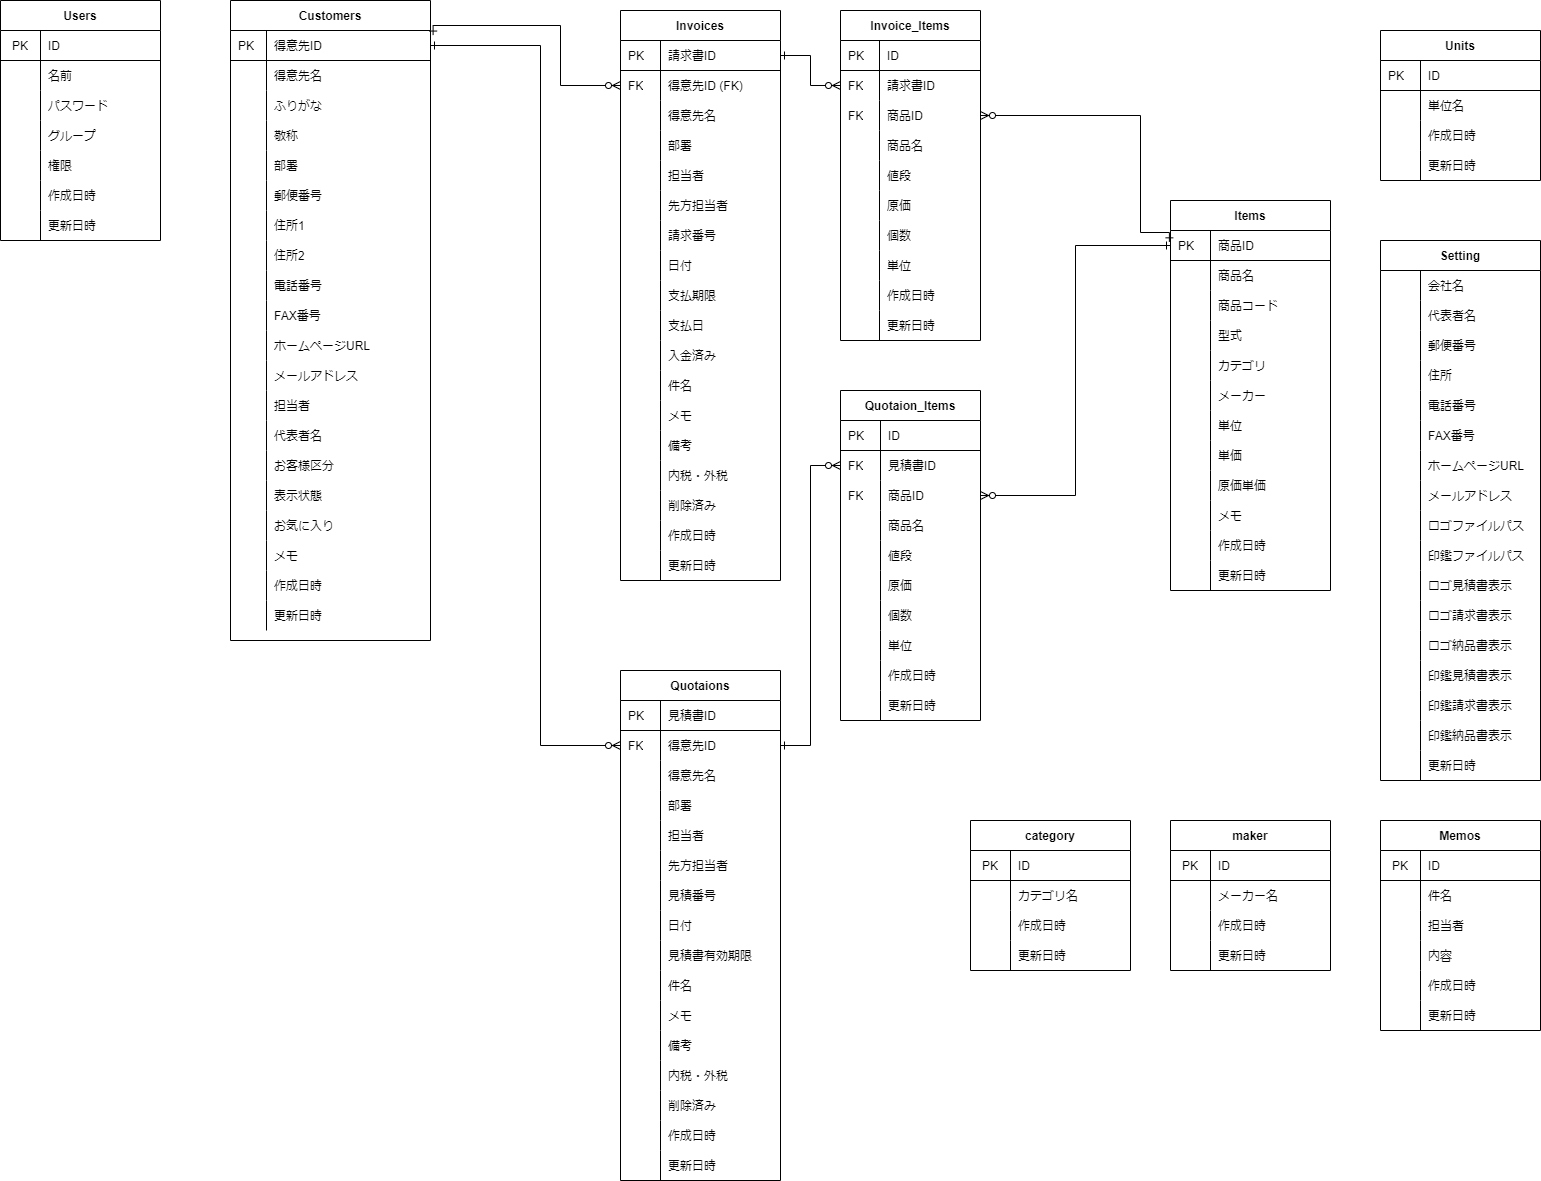
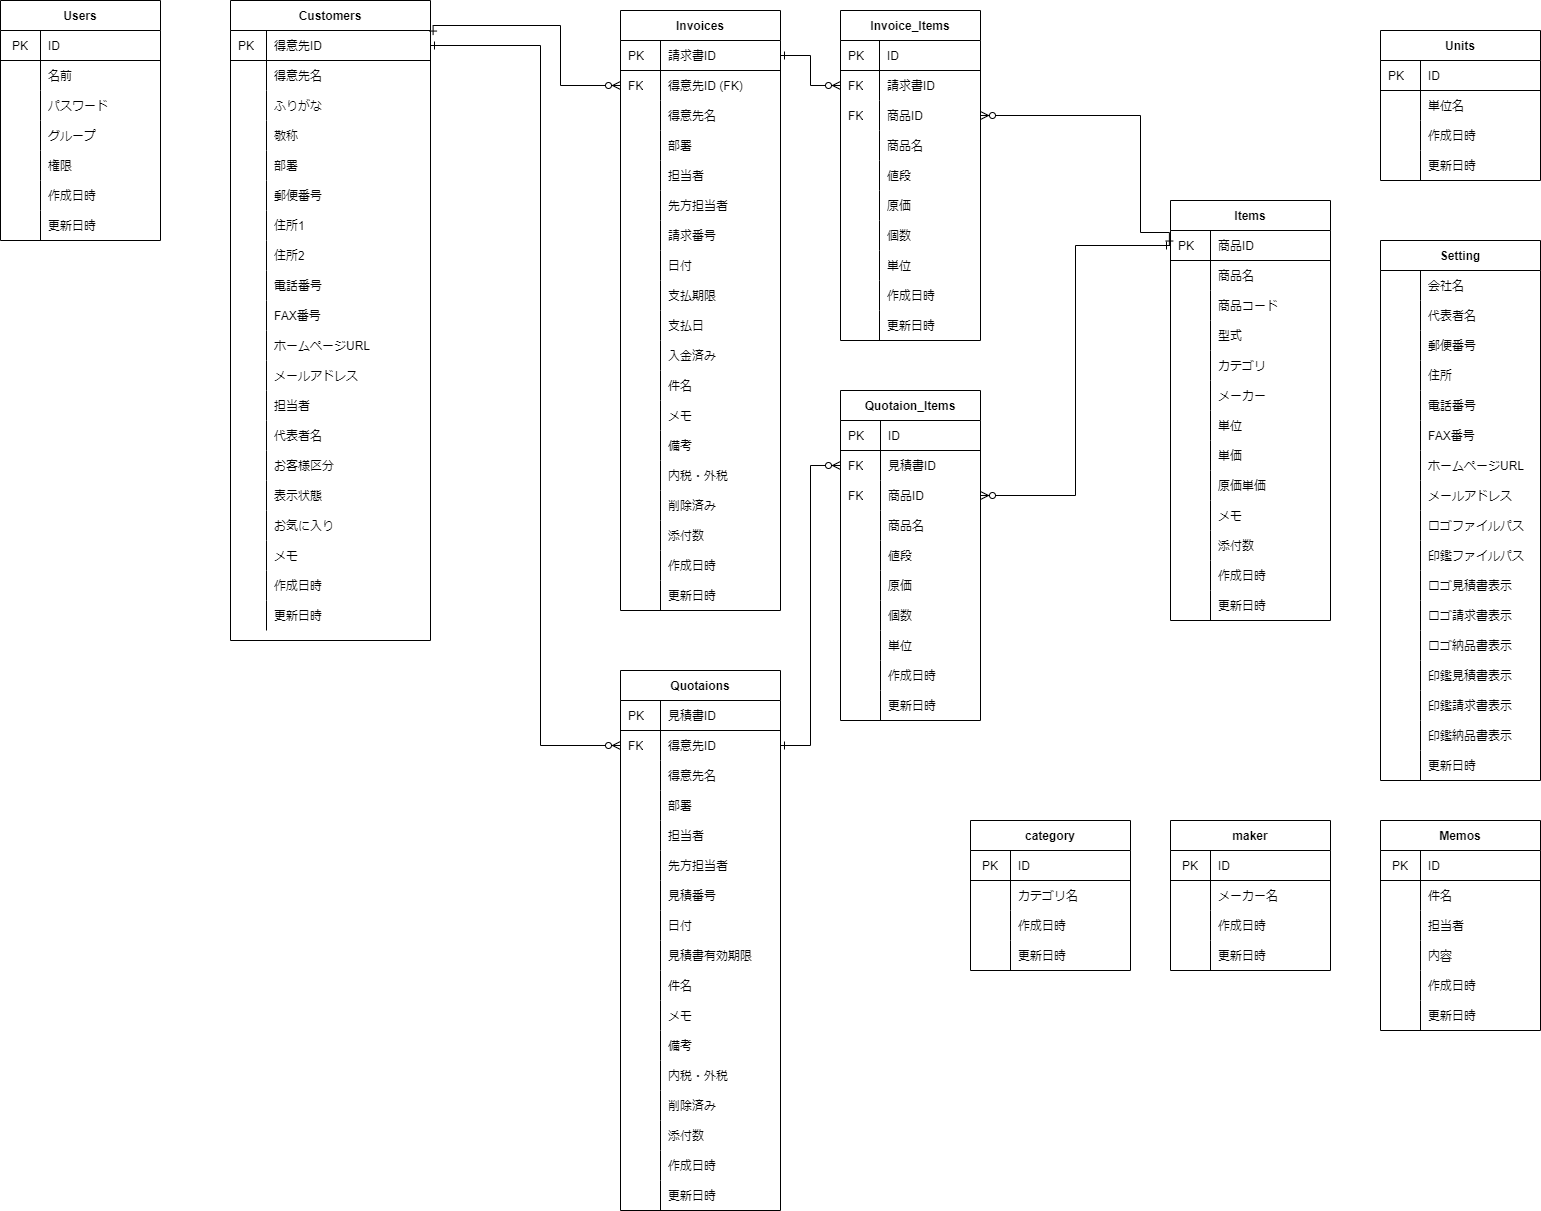
商品・請求・見積モデルに添付ファイル数カラム追加

diff --git a/app/seeder.py b/app/seeder.py
@@ -56,11 +56,11 @@ def seeder():
     print('----Items----')
     items = [
         Item(id=1, itemName='りんご', itemCode='11111', model='APP001', category='食料品', maker='apple青果店', unit='個', basePrice=100,
-             baseCost=50, memo='これはりんごのメモです'),
+             baseCost=50, memo='これはりんごのメモです', numberOfAttachments=0),
         Item(id=2, itemName='鉛筆', itemCode='22222', model='PEN001', category='事務用品', maker='トンビ鉛筆', unit='本', basePrice=20,
-             baseCost=5, memo='これは鉛筆のメモです'),
+             baseCost=5, memo='これは鉛筆のメモです', numberOfAttachments=0),
         Item(id=3, itemName='ラジオ', itemCode='33333', model='RAD001', category='家電', maker='zony', unit='台', basePrice=1000,
-             baseCost=300, memo='これはラジオのメモです'),
+             baseCost=300, memo='これはラジオのメモです', numberOfAttachments=0),
     ]
     db.session.add_all(items)
     db.session.commit()
@@ -73,11 +73,11 @@ def seeder():
     print('----Invoices-----')
     invoices = [
         Invoice(customerId=1, customerName='○○株式会社', department='部署1', manager='田中太郎', otherPartyManager='先方太郎', applyDate=date(2022, 1, 1), deadLine=date(2022, 1, 1),
-                paymentDate=date(2022, 1, 1), isPaid=False, title='○○株式会社への請求書', memo='これは請求書のメモです', remarks='これは請求書の備考です', isTaxExp=True),
+                paymentDate=date(2022, 1, 1), isPaid=False, title='○○株式会社への請求書', memo='これは請求書のメモです', remarks='これは請求書の備考です', isTaxExp=True, numberOfAttachments=0),
         Invoice(customerId=2, customerName="○○有限会社", department='部署2', manager='田中次郎', otherPartyManager='先方次郎', applyDate=date(2022, 1, 1), deadLine=date(2022, 1, 1),
-                paymentDate=date(2022, 1, 1), isPaid=False, title='○○有限会社への請求書', memo='これは請求書のメモです', remarks='これは請求書の備考です', isTaxExp=True),
+                paymentDate=date(2022, 1, 1), isPaid=False, title='○○有限会社への請求書', memo='これは請求書のメモです', remarks='これは請求書の備考です', isTaxExp=True, numberOfAttachments=0),
         Invoice(customerId=3, customerName="○○商事", department='部署3', manager='田中三郎', otherPartyManager='先方三郎', applyDate=date(2022, 1, 1), deadLine=date(2022, 1, 1),
-                paymentDate=date(2022, 1, 1), isPaid=False, title='○○商事への請求書', memo='これは請求書のメモです', remarks='これは請求書の備考です', isTaxExp=True),
+                paymentDate=date(2022, 1, 1), isPaid=False, title='○○商事への請求書', memo='これは請求書のメモです', remarks='これは請求書の備考です', isTaxExp=True, numberOfAttachments=0),
     ]
     db.session.add_all(invoices)
     db.session.commit()
@@ -111,11 +111,11 @@ def seeder():
     print('----Quotations----')
     quotations = [
         Quotation(customerId=1, customerName='○○株式会社', department='部署1', manager='田中太郎', otherPartyManager='先方太郎', applyDate=date(2022, 1, 1), expiry=date(2022, 1, 1),
-                  title='○○株式会社への見積書', memo='これは見積書のメモです', remarks='これは見積書の備考です', isTaxExp=True),
+                  title='○○株式会社への見積書', memo='これは見積書のメモです', remarks='これは見積書の備考です', isTaxExp=True, numberOfAttachments=0),
         Quotation(customerId=2, customerName="○○有限会社", department='部署2', manager='田中次郎', otherPartyManager='先方次郎', applyDate=date(2022, 1, 1), expiry=date(2022, 1, 1),
-                  title='○○有限会社への見積書', memo='これは見積書のメモです', remarks='これは見積書の備考です', isTaxExp=True),
+                  title='○○有限会社への見積書', memo='これは見積書のメモです', remarks='これは見積書の備考です', isTaxExp=True, numberOfAttachments=0),
         Quotation(customerId=3, customerName="○○商事", department='部署3', manager='田中三郎', otherPartyManager='先方三郎', applyDate=date(2022, 1, 1), expiry=date(2022, 1, 1),
-                  title='○○商事への見積書', memo='これは見積書のメモです', remarks='これは見積書の備考です', isTaxExp=True),
+                  title='○○商事への見積書', memo='これは見積書のメモです', remarks='これは見積書の備考です', isTaxExp=True, numberOfAttachments=0),
     ]
     db.session.add_all(quotations)
     db.session.commit()

diff --git a/app/api.py b/app/api.py
@@ -167,6 +167,7 @@ def item_create():
         basePrice=data.get('basePrice'),
         baseCost=data.get('baseCost'),
         memo=data.get('memo'),
+        numberOfAttachments=data.get('numberOfAttachments'),
     )
     db.session.add(newItem)
     db.session.commit()
@@ -188,6 +189,7 @@ def item_update(id):
     item.basePrice = data.get('basePrice')
     item.baseCost = data.get('baseCost')
     item.memo = data.get('memo')
+    item.numberOfAttachments = data.get('numberOfAttachments')
 
     db.session.commit()
     return jsonify({"result": "OK", "id": id, "data": data})
@@ -259,6 +261,7 @@ def invoice_create():
         memo=data.get('memo'),
         remarks=data.get('remarks'),
         isTaxExp=data.get('isTaxExp') if data.get('isTaxExp') else True,
+        numberOfAttachments=data.get('numberOfAttachments'),
         invoice_items=newInvoiceItems,
     )
     db.session.add(newInvoice)
@@ -291,6 +294,7 @@ def invoice_update(id):
     invoice.title = data.get('title')
     invoice.memo = data.get('memo')
     invoice.remarks = data.get('remarks')
+    invoice.numberOfAttachments = data.get('numberOfAttachments')
     invoice.isTaxExp = data.get('isTaxExp') if data.get('isTaxExp') else True
 
     if data.get('invoice_items'):
@@ -445,6 +449,7 @@ def quotation_create():
         memo=data.get('memo'),
         remarks=data.get('remarks'),
         isTaxExp=data.get('isTaxExp') if data.get('isTaxExp') else True,
+        numberOfAttachments=data.get('numberOfAttachments'),
         quotation_items=newQuotationItems,
     )
     db.session.add(newQuotation)
@@ -475,6 +480,7 @@ def quotation_update(id):
     quotation.memo = data.get('memo')
     quotation.remarks = data.get('remarks')
     quotation.isTaxExp = data.get('isTaxExp') if data.get('isTaxExp') else True
+    quotation.numberOfAttachments = data.get('numberOfAttachments')
 
     if data.get('quotation_items'):
         update_list = []

diff --git a/app/models.py b/app/models.py
@@ -66,6 +66,8 @@ class Item(db.Model):
     basePrice = db.Column(db.Integer)
     baseCost = db.Column(db.Integer)
     memo = db.Column(db.String)
+    numberOfAttachments = db.Column(
+        db.Integer, default=0, server_default=db.text('0'))
     createdAt = db.Column(db.DateTime, nullable=False, default=datetime.now)
     updatedAt = db.Column(db.DateTime, nullable=False,
                           default=datetime.now, onupdate=datetime.now)
@@ -112,6 +114,8 @@ class Invoice(db.Model):
     remarks = db.Column(db.String)
     isTaxExp = db.Column(db.Boolean, nullable=False, default=True)
     isDelete = db.Column(db.Boolean, nullable=False, default=False)
+    numberOfAttachments = db.Column(
+        db.Integer, default=0, server_default=db.text('0'))
     createdAt = db.Column(db.DateTime, nullable=False, default=datetime.now)
     updatedAt = db.Column(db.DateTime, nullable=False,
                           default=datetime.now, onupdate=datetime.now)
@@ -174,6 +178,8 @@ class Quotation(db.Model):
     remarks = db.Column(db.String)
     isTaxExp = db.Column(db.Boolean, nullable=False, default=True)
     isDelete = db.Column(db.Boolean, nullable=False, default=False)
+    numberOfAttachments = db.Column(
+        db.Integer, default=0, server_default=db.text('0'))
     createdAt = db.Column(db.DateTime, nullable=False, default=datetime.now)
     updatedAt = db.Column(db.DateTime, nullable=False,
                           default=datetime.now, onupdate=datetime.now)

diff --git a/models.md b/models.md
@@ -53,6 +53,7 @@
 | basePrice| 単価     | integer   |  請求書にて商品選択時に参照のみ。                                                              | 
 | baseCost | 原価単価  | integer   |  請求書にて商品選択時に参照のみ。                                                             | 
 | memo     | メモ     | text      |                                                                                             | 
+| numberOfAttachments | 添付数 | integer | 添付されたファイル数                                                                   | 
 | createdAt| 作成日時 | datetime  |                                                                                             | 
 | updatedAt| 更新日時 | datetime  |                                                                                             |
 
@@ -78,6 +79,7 @@
 | remarks     | 備考           | text     |  印刷時に表示されるもの                                   |
 | isTaxExp    | 内税・外税     | boolean   |  内税・外税のチェック                                      | 
 | isDelete    | 削除済み       | boolean   |  請求書は削除するのではなく、これにチェックする               | 
+| numberOfAttachments | 添付数 | integer | 添付されたファイル数                                          | 
 | createdAt   | 作成日時       | datetime  |                                                           | 
 | updatedAt   | 更新日時       | datetime  |                                                           | 
 
@@ -118,6 +120,7 @@
 | remarks     | 備考           | text     | 印刷時に表示されるもの                                   | 
 | isTaxExp    | 内税・外税      | boolean  | 内税・外税のチェック                                     | 
 | isDelete    | 削除済み       | boolean  |  見積書は削除するのではなく、これにチェックする              | 
+| numberOfAttachments | 添付数 | integer | 添付されたファイル数                                       | 
 | createdAt   | 作成日時       | datetime |                                                          | 
 | updatedAt   | 更新日時       | datetime |                                                          | 
 
